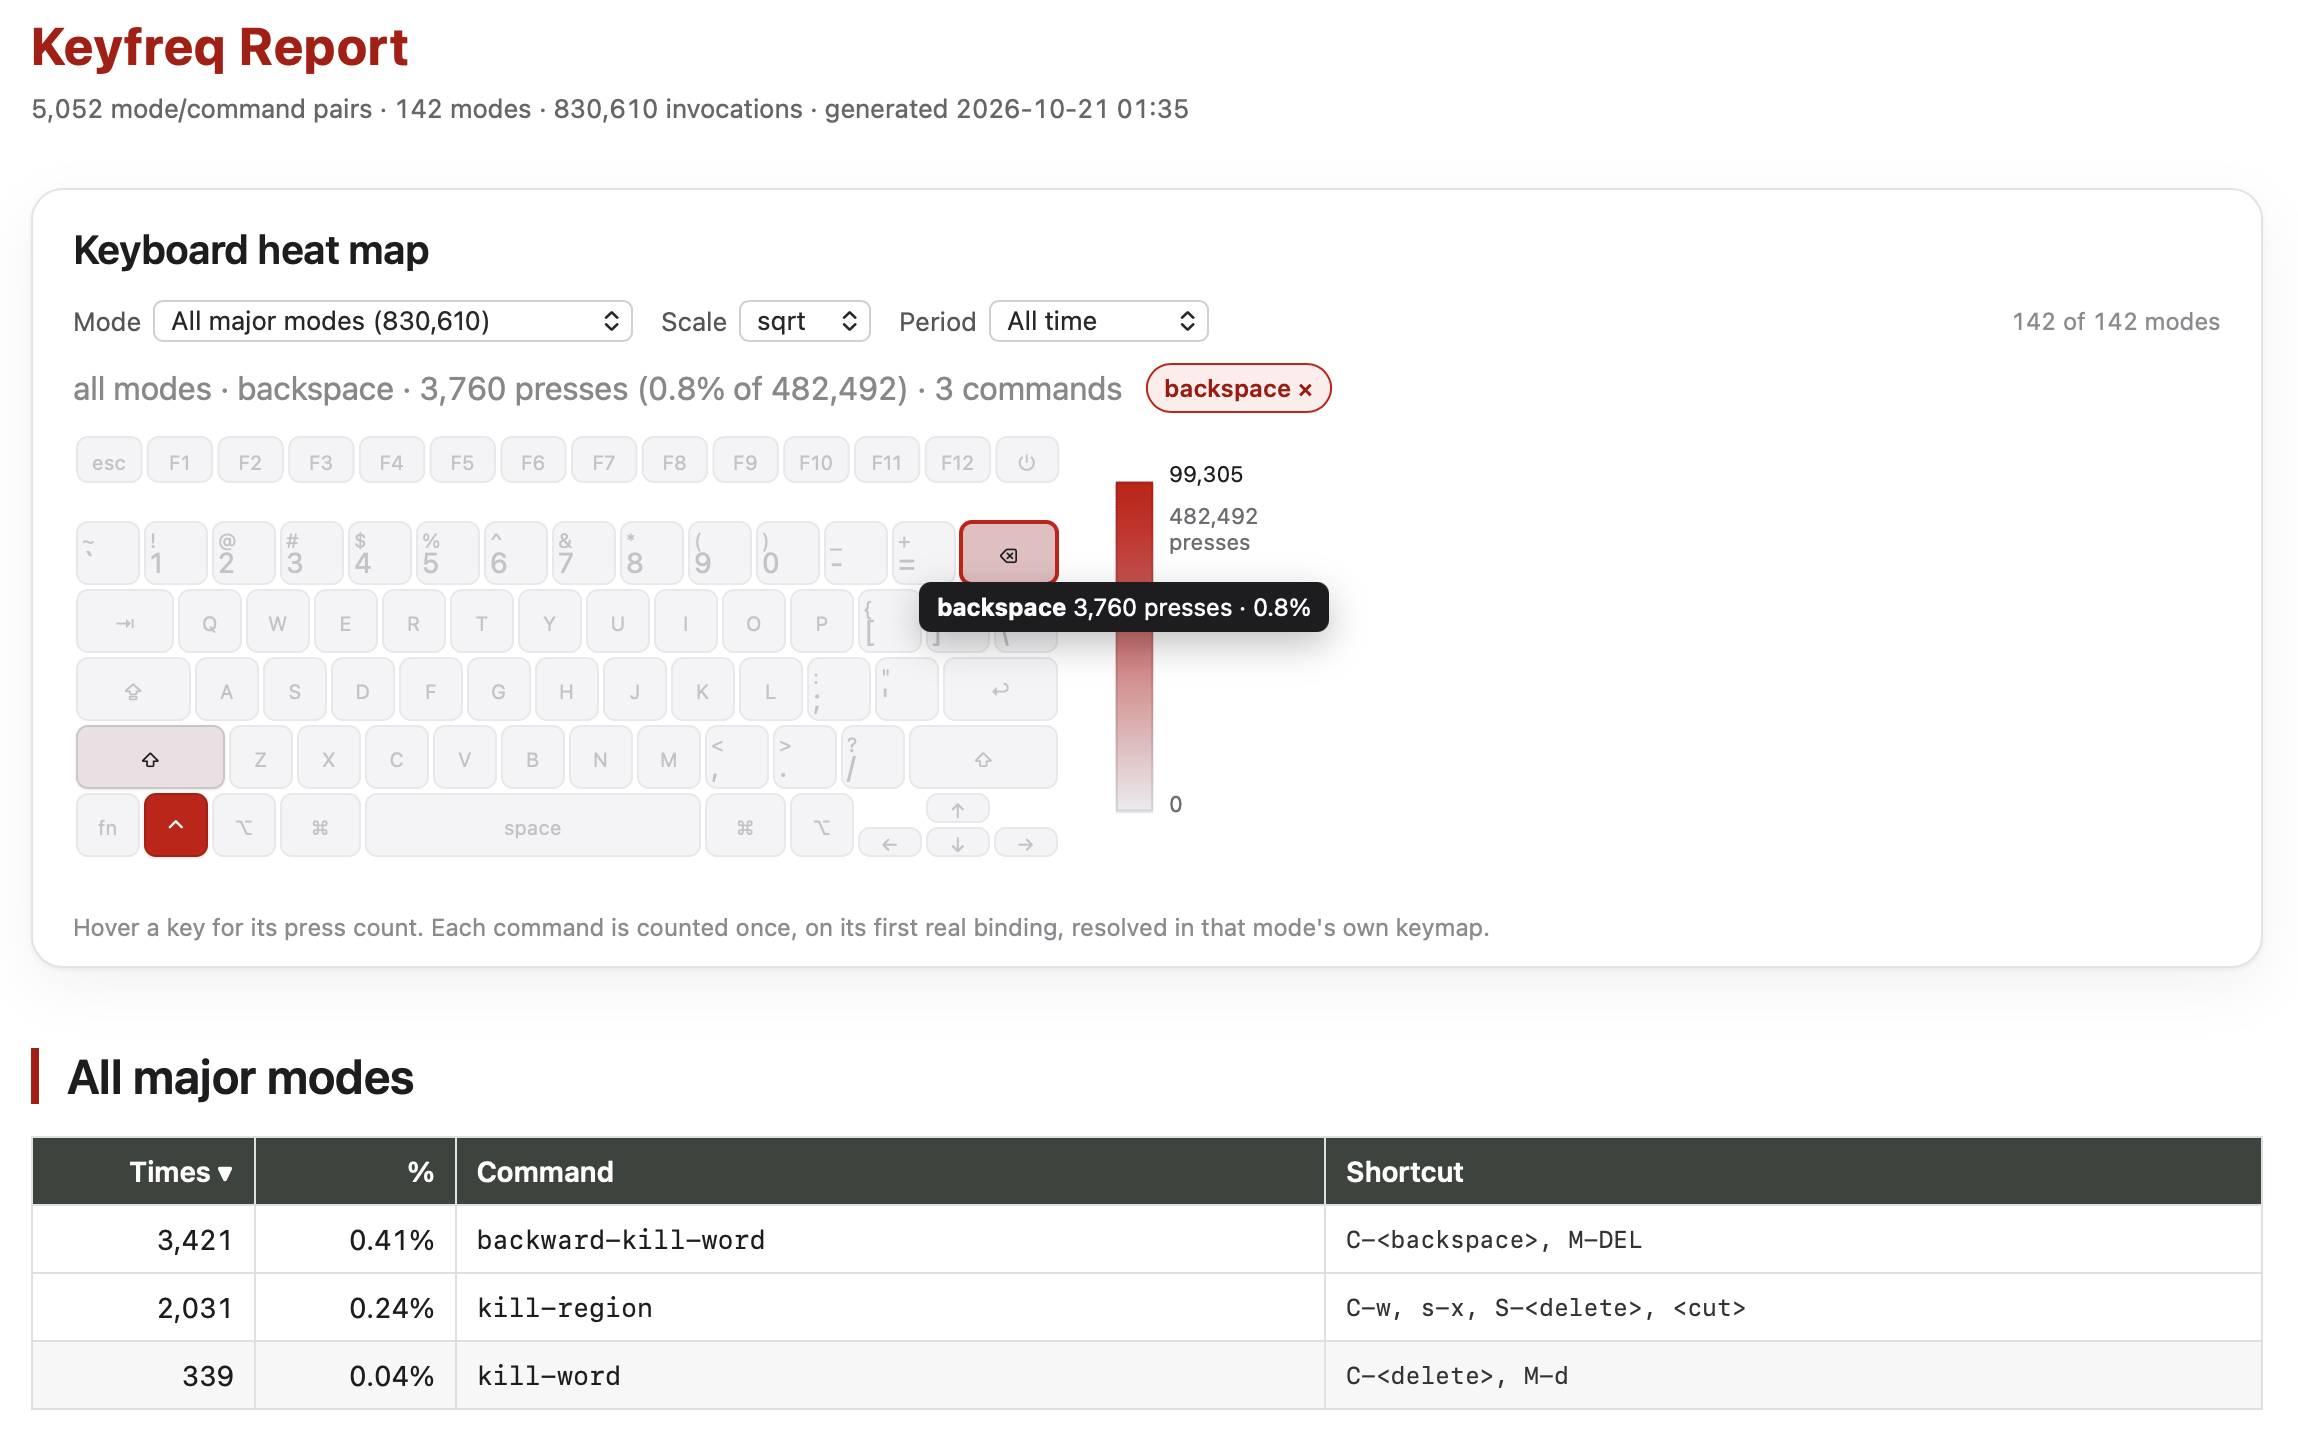
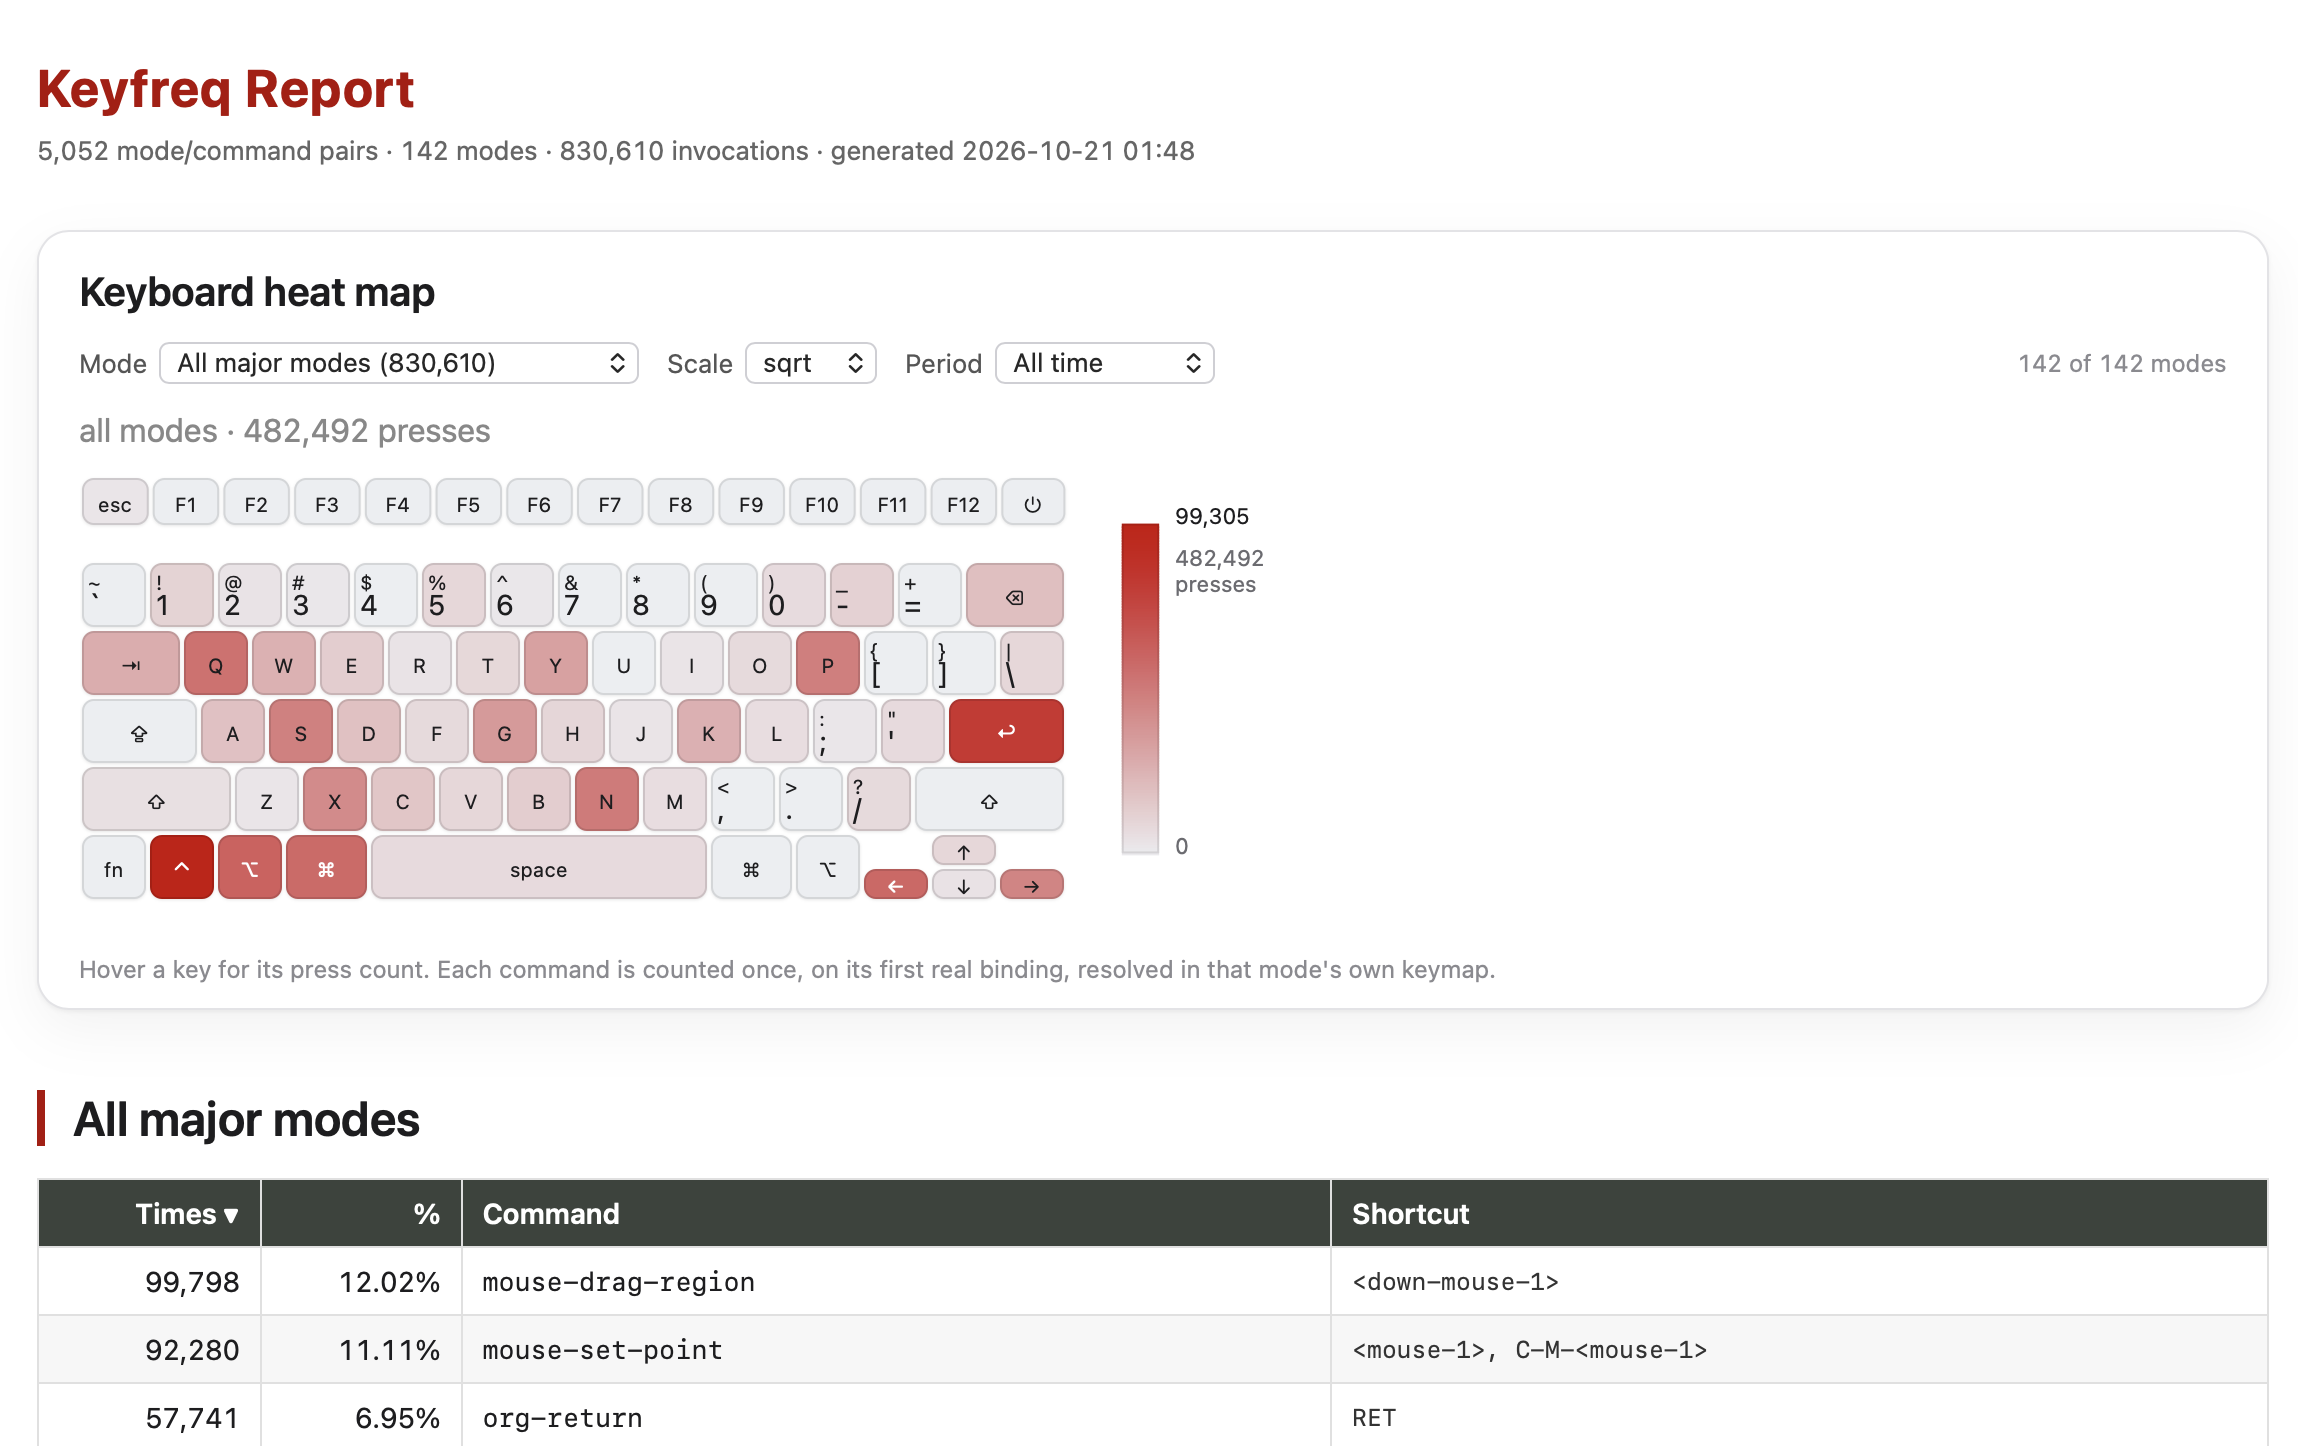
docs(readme): drop the claims the code no longer makes
Several paragraphs still described the fork before it learned to record
keys, and two numbers were simply stale:

* "the character area cannot be split at all" and the drawback saying
  typing could never be split per letter contradicted the next section --
  `keyfreq-record-keys' does exactly that.  Reframed as what is true: the
  old counters are hotkey counts, the recorded keys only help presses made
  after the setting was enabled, so a fresh log is not comparable.
* the test counts were 51 / 59; they are 62 / 64.
* "one canvas, four controls" -- the card has three menus and a focus chip,
  and the status line now follows the focused key.
* the daily-archive listing used the author's absolute paths and forgot the
  side file, so it reads `<keyfreq-file>`, `<keyfreq-file>.keys` and
  `<keyfreq-days>` now.
* the screenshot predated the two-legend key caps, the Apple glyphs and the
  key focus; regenerated from a real log at the same size.

Also lists the recorded keys in the upstream comparison table.

diff --git a/README.md b/README.md
@@ -15,6 +15,7 @@ Compared with upstream:
 | report | one table per mode, stacked | one table at a time, chosen from a menu |
 | heat map | one static canvas per mode | a single interactive canvas |
 | shortcuts | resolved in the global keymap | resolved in each mode's own keymap |
+| keys | resolved after the fact | recorded at press time, in a side file |
 | time | cumulative only | today / 7 days / 30 days / git snapshots |
 
 ![The report](./assets/keyfreq-html-v2.png)
@@ -28,7 +29,7 @@ argument (`C-u`) it asks where to save instead of using a temporary file.
 
 ### Keyboard heat map
 
-One canvas, four controls and no page-level clutter:
+One canvas and a row of menus, with nothing else on the page:
 
 * **Mode** -- `All major modes` or any single mode.  It drives the heat map
   *and* the table below it, so choosing `org-mode` shows org-mode's keys and
@@ -47,8 +48,10 @@ One canvas, four controls and no page-level clutter:
 * **Click** -- focuses a key: it is outlined, the keys it is used with (a
   modifier with the keys it modifies, and the keys of a multi-key sequence)
   keep their heat, every other key fades to a flat grey so the map keeps its
-  shape, and the table keeps only the commands that use it.  Click the chip,
-  press `Escape' or click the key again to clear it.
+  shape, and the table keeps only the commands that use it.  The status line
+  switches to that key -- its presses, its share of the selection and how many
+  commands use it.  Click the chip, press `Escape` or click the key again to
+  clear it.
 * **Modifiers** -- `C-`, `M-`, `S-`, `s-` and `A-` light the Control, Option,
   Shift and Command keys; `s-` is Super (Command), not the letter `s`, and
   names like `<return>` or `<space>` are matched to their key caps.
@@ -84,7 +87,8 @@ The report now resolves each mode/command pair in that mode's own
 
 Resolving is still a guess, though: a command with two bindings gets one of
 them, and every typed character is the single command
-`self-insert-command`, so the character area cannot be split at all.
+`self-insert-command`, so on its own it cannot split the character area.
+Recording the key at press time -- the next section -- fixes both.
 
 ### Recorded keys
 
@@ -171,11 +175,15 @@ Cumulative counters can only answer "since the beginning", so the fork also
 writes one small file per day:
 
 ```
-~/.emacs.d/assets/keyfreq-log                  cumulative rollup
-~/.emacs.d/assets/keyfreq-days/.baseline.log   the rollup before the split
-~/.emacs.d/assets/keyfreq-days/2026-10-18.log  today's deltas
-~/.emacs.d/assets/keyfreq-days/2026-10-17.log  yesterday, frozen
+<keyfreq-file>                     cumulative rollup
+<keyfreq-file>.keys                the recorded keys (see above)
+<keyfreq-days>/.baseline.log       the rollup before the split
+<keyfreq-days>/2026-10-18.log      today's deltas
+<keyfreq-days>/2026-10-17.log      yesterday, frozen
 ```
+
+`<keyfreq-days>` is a `keyfreq-days` directory next to `keyfreq-file` unless
+`keyfreq-daily-directory` says otherwise.
 
 The daily archives are authoritative; `keyfreq-file` is a materialised view that
 `M-x keyfreq-rebuild-rollup` can regenerate from the baseline plus every daily
@@ -201,17 +209,19 @@ friendly to version control.
 1. The keyboard layout is **hardcoded** (Apple).  Feeding it a JSON layout from
    [keyboard-layout-editor.com](http://www.keyboard-layout-editor.com/) would
    generalise it.
-2. Without `keyfreq-record-keys` the map is a map of **hotkeys**, not of typing:
-   `keyfreq` records the command you ran, and the key is resolved afterwards.  On the author's log roughly
-   49% of the recorded presses are mouse events, 22% are typing collapsed into
-   the single `self-insert-command` counter, 10% resolve to no binding at all,
-   and only about 29% land on a physical key -- those proportions depend
+2. Counters collected before `keyfreq-record-keys` was enabled are still a map
+   of **hotkeys**, not of typing: the key is resolved afterwards, a command with
+   two bindings is drawn on its first one, and typed characters collapse into
+   the single `self-insert-command` counter.  The recorded keys fill that gap
+   only for presses made after the setting was turned on, so a fresh log is not
+   comparable with an old one.
+3. Those old counters are what the numbers below describe.  On the author's log
+   roughly 49% of the recorded presses are mouse events, 22% are typing
+   collapsed into `self-insert-command`, 10% resolve to no binding at all, and
+   only about 29% land on a physical key.  Recording the keys moves the typing
+   share onto real key caps, but the mouse share stays: those proportions depend
    entirely on how you use Emacs, so treat them as an illustration, not as a
-   normalisation.  The character area can never be split per letter without
-   recording `this-command-keys`.
-3. With recorded keys a second binding counts by its own share; without them a
-   command with several bindings is drawn on its first one only.  Counters
-   collected before `keyfreq-record-keys` was enabled keep the old behaviour.
+   normalisation.
 4. Auto-generated key descriptions can be surprising: in `dired`,
    `revert-buffer` is `<menu-bar> <file> <revert-buffer>` when you actually press
    `g`.  Pseudo bindings are now filtered out, so the row simply shows no key.
@@ -298,8 +308,8 @@ folder, which holds the inlined `style.css` and `script.js`:
 ## Running the tests
 
 ``` sh
-emacs --batch -l test/keyfreq-tests.el        # persistence, 51 assertions
-emacs --batch -l test/keyfreq-html-tests.el   # the report, 59 assertions
+emacs --batch -l test/keyfreq-tests.el        # persistence, 62 assertions
+emacs --batch -l test/keyfreq-html-tests.el   # the report, 64 assertions
 ```
 
 Both suites build their own fixtures in a temporary directory and never touch
